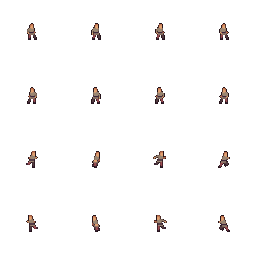
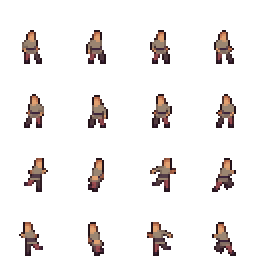
Programar Partidas para 2 jogadores #37

diff --git a/cliente/js/cena-principal.js b/cliente/js/cena-principal.js
@@ -72,16 +72,16 @@ export default class principal extends Phaser.Scene {
       0
     );
 
-if (this.game.jogadores.primeiro === this.game.socket.id) {
+    if (this.game.jogadores.primeiro === this.game.socket.id) {
       this.local = "robo-1";
       this.jogador_1 = this.physics.add.sprite(80, 360, this.local);
       this.remoto = "robo-2";
-      this.jogador_2 = this.add.sprite(80, 112, this.remoto);
+      this.jogador_2 = this.add.sprite(80, 100, this.remoto);
     } else {
       this.remoto = "robo-1";
       this.jogador_2 = this.add.sprite(80, 360, this.remoto);
       this.local = "robo-2";
-      this.jogador_1 = this.physics.add.sprite(80, 112, this.local);
+      this.jogador_1 = this.physics.add.sprite(80, 100, this.local);
     }
     this.anims.create({
       key: "jogador-parado",
@@ -123,8 +123,7 @@ if (this.game.jogadores.primeiro === this.game.socket.id) {
       repeat: -1,
     });
 
-    this.cristal = this.physics.add.sprite(430, 100, "cristal");
-
+    /* Cristal */
     this.anims.create({
       key: "cristal-brilhando",
       frames: this.anims.generateFrameNumbers("cristal", {
@@ -135,22 +134,39 @@ if (this.game.jogadores.primeiro === this.game.socket.id) {
       repeat: -1,
     });
 
-    this.cristal.anims.play("cristal-brilhando");
+    this.cristal = [
+      {
+        x: 430,
+        y: 100,
+        objeto: undefined,
+      },
+    ];
+    this.cristal.forEach((item) => {
+      item.objeto = this.physics.add.sprite(item.x, item.y, "cristal");
+      item.objeto.anims.play("cristal-brilhando");
+      this.physics.add.collider(item.objeto, this.terreno, null, null, this);
+      this.physics.add.overlap(
+        this.jogador_1,
+        item.objeto,
+        this.coletar_cristal,
+        null,
+        this
+      );
+    });
 
-
-      /* Botões */
+    /* Botões */
     this.cima = this.add
       .sprite(740, 330, "cima", 0)
       .setInteractive()
       .on("pointerdown", () => {
         this.cima.setFrame(0);
         this.jogador_1.setVelocityY(-100);
-        this.jogador_1.anims.play("jogador-1-cima");
+        this.jogador_1.anims.play("jogador-cima");
       })
       .on("pointerup", () => {
         this.cima.setFrame(0);
         this.jogador_1.setVelocityY(-220);
-        this.jogador_1.anims.play("jogador-1-parado");
+        this.jogador_1.anims.play("jogador-parado");
       })
       .setScrollFactor(0);
 
@@ -160,12 +176,12 @@ if (this.game.jogadores.primeiro === this.game.socket.id) {
       .on("pointerdown", () => {
         this.baixo.setFrame(0);
         this.jogador_1.setVelocityY(100);
-        this.jogador_1.anims.play("jogador-1-baixo");
+        this.jogador_1.anims.play("jogador-baixo");
       })
       .on("pointerup", () => {
         this.baixo.setFrame(0);
         this.jogador_1.setVelocityY(0);
-        this.jogador_1.anims.play("jogador-1-parado");
+        this.jogador_1.anims.play("jogador-parado");
       })
       .setScrollFactor(0);
 
@@ -175,12 +191,12 @@ if (this.game.jogadores.primeiro === this.game.socket.id) {
       .on("pointerdown", () => {
         this.esquerda.setFrame(0);
         this.jogador_1.setVelocityX(-100);
-        this.jogador_1.anims.play("jogador-1-esquerda");
+        this.jogador_1.anims.play("jogador-esquerda");
       })
       .on("pointerup", () => {
         this.esquerda.setFrame(0);
         this.jogador_1.setVelocityX(0);
-        this.jogador_1.anims.play("jogador-1-parado");
+        this.jogador_1.anims.play("jogador-parado");
       })
       .setScrollFactor(0);
 
@@ -190,12 +206,12 @@ if (this.game.jogadores.primeiro === this.game.socket.id) {
       .on("pointerdown", () => {
         this.direita.setFrame(0);
         this.jogador_1.setVelocityX(100);
-        this.jogador_1.anims.play("jogador-1-direita");
+        this.jogador_1.anims.play("jogador-direita");
       })
       .on("pointerup", () => {
         this.direita.setFrame(0);
         this.jogador_1.setVelocityX(0);
-        this.jogador_1.anims.play("jogador-1-parado");
+        this.jogador_1.anims.play("jogador-parado");
       })
       .setScrollFactor(0);
 
@@ -213,11 +229,6 @@ if (this.game.jogadores.primeiro === this.game.socket.id) {
       })
       .setScrollFactor(0);
 
-    this.jogador_1.setCollideWorldBounds(true);
-    this.cameras.main.setBounds(0, 0, 1280, 1920);
-    this.physics.world.setBounds(0, 0, 1280, 1920);
-    this.cameras.main.startFollow(this.jogador_1);
-      
     /* Colisões por tile */
     this.terreno.setCollisionByProperty({ collides: true });
 
@@ -229,29 +240,54 @@ if (this.game.jogadores.primeiro === this.game.socket.id) {
       null,
       this
     );
-    
-    this.physics.add.collider(
-      this.cristal,
-      this.terreno,
-      this.collision,
-      null,
-      this
-    );
 
+    this.jogador_1.setCollideWorldBounds(true);
 
+    this.cameras.main.setBounds(0, 0, 1280, 1920);
+    this.physics.world.setBounds(0, 0, 1280, 1920);
+    this.cameras.main.startFollow(this.jogador_1);
+
+    this.game.socket.on("estado-notificar", ({ frame, x, y }) => {
+      this.jogador_2.setFrame(frame);
+      this.jogador_2.x = x;
+      this.jogador_2.y = y;
+    });
+
+    this.game.socket.on("artefatos-notificar", (artefatos) => {
+      for (let i = 0; i < artefatos.length; i++) {
+        if (!artefatos[i]) {
+          this.cristal[i].objeto.disableBody(true, true);
+        }
+      }
+    });
   }
 
-  update() {}
-
+  update() {
+    let frame;
+    try {
+      frame = this.jogador_1.anims.getFrameName();
+    } catch (e) {
+      frame = 0;
+    }
+    this.game.socket.emit("estado-publicar", this.game.sala, {
+      frame: frame,
+      x: this.jogador_1.body.x + 32,
+      y: this.jogador_1.body.y + 32,
+    });
+  }
   collision() {
     /* Tremer a tela por 100 ms com baixa intensidade (0.01) */
-    // this.cameras.main.shake(100, 0.01);
-
+    //this.cameras.main.shake(100, 0.01);
     /* Vibrar o celular pelos mesmos 100 ms */
-    if (window.navigator.vibrate) {
-      window.navigator.vibrate([100]);
-    }
+    //window.navigator.vibrate([100]);
+  }
+
+  coletar_cristal(jogador, cristal) {
+    cristal.disableBody(true, true);
+    this.game.socket.emit(
+      "artefatos-publicar",
+      this.game.sala,
+      this.game.scene.scenes[2].cristal.map((cristal) => cristal.objeto.visible)
+    );
   }
 }
-
-
